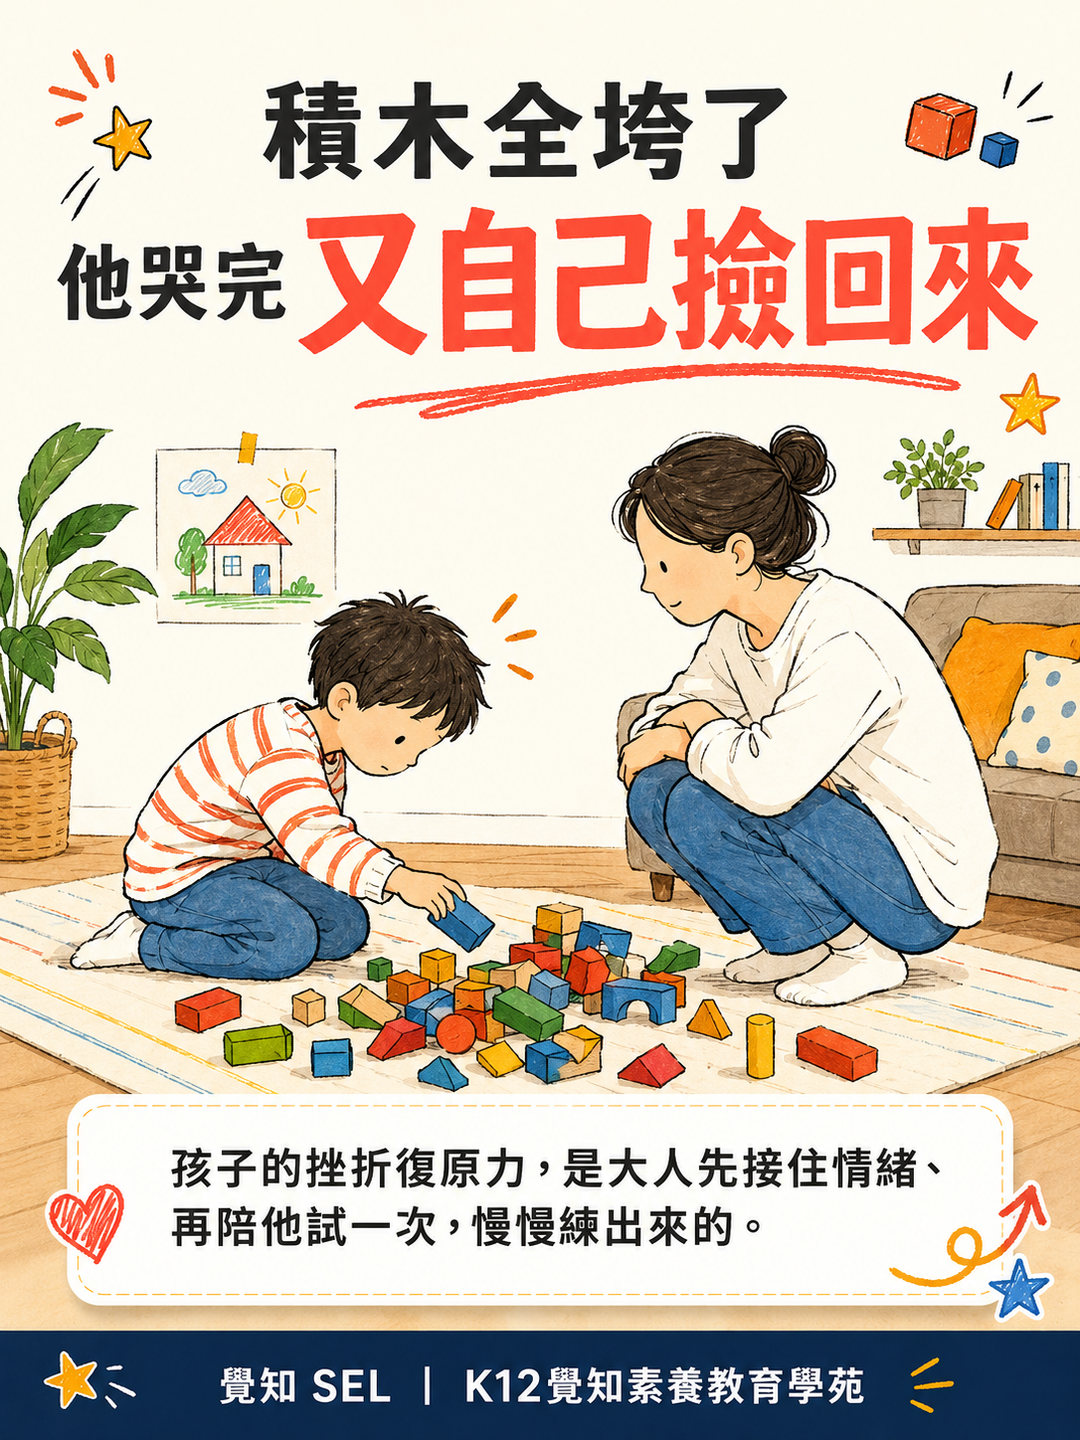
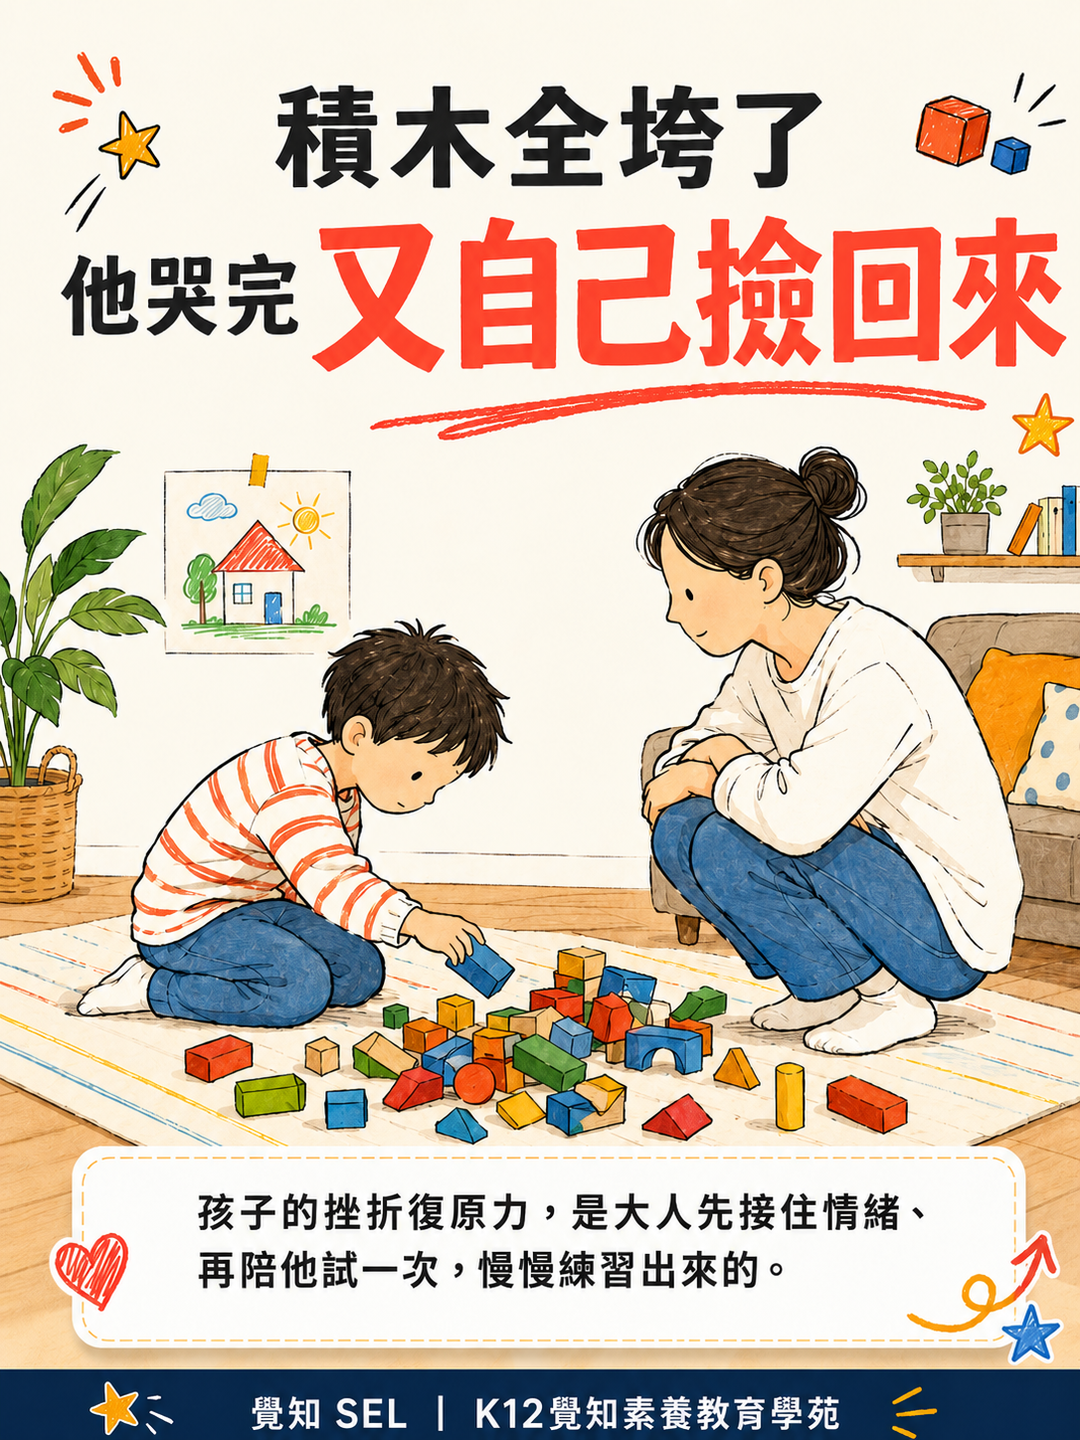
auto: dailynews update 2026-08-09 17:03 TW

diff --git a/2026-08/parenting_essence_2026-08-09.html b/2026-08/parenting_essence_2026-08-09.html
@@ -4,14 +4,14 @@
   <meta charset="utf-8">
   <meta name="viewport" content="width=device-width, initial-scale=1.0">
   <title>就差最後一塊，他堆了一下午的積木塔全垮了 ｜ 覺知教養．每日精華</title>
-  <meta name="description" content="兒子花了一下午疊積木，就差最後一塊，整座塔垮了，他氣得眼淚直掉、把積木撥得滿地。我第一個念頭是「這有什麼好哭」，話到嘴邊又吞了回去。這一篇想聊的，是孩子被挫折淹沒的那一刻，我們與其急著幫他重疊、或叫他別哭，不如先蹲下來接住那股氣——挫折這一關，是一次一次陪著練出來的，也是他日後遇到難事、還願意再試一次的底氣。">
+  <meta name="description" content="兒子花了一下午疊積木，就差最後一塊，整座塔垮了，他氣得眼淚直掉、把積木撥得滿地。我第一個念頭是「這有什麼好哭」，話到嘴邊又吞了回去。這一篇想聊的，是孩子被挫折淹沒的那一刻，我們與其急著幫他重疊、或叫他別哭，不如先蹲下來接住那股氣——挫折這一關，是一次一次陪著練習出來的，也是他日後遇到難事、還願意再試一次的底氣。">
   <meta name="keywords" content="挫折,情緒崩潰,挫折忍受,復原力,心理韌性,再試一次,情緒調節,陪伴,積木,國小低年級,親子,家長,教養,覺知教養,覺知素養,親子溝通,情緒管理,非認知能力,SEL,社會情緒學習,心智光譜">
   <meta name="share-title" content="他氣到把積木全撥開那刻，正在學一件大事">
   <meta name="share-tint" content="sage">
   <meta name="share-palette" content="cream">
   <meta name="hero-title-pos" content="left">
   <meta name="share-teaser" content="他被一次失敗淹沒時，最需要的不是你幫他重來">
-  <meta name="share-explainer" content="挫折忍受不是天生的；是每次跌倒時，有人先接住情緒、再陪他試一次，慢慢練出來的。">
+  <meta name="share-explainer" content="挫折忍受不是天生的；是每次跌倒時，有人先接住情緒、再陪他試一次，慢慢練習出來的。">
   <meta name="share-highlight" content="先接住他的氣">
   <meta name="share-cta" content="家裡也有個一失敗就崩潰的孩子，把這篇存起來 →">
   <style>
@@ -2733,7 +2733,7 @@ body .body section {
 <!-- Open Graph -->
 <meta property="og:type" content="article">
 <meta property="og:title" content="就差最後一塊，他堆了一下午的積木塔全垮了">
-<meta property="og:description" content="兒子花了一下午疊積木，就差最後一塊，整座塔垮了，他氣得眼淚直掉、把積木撥得滿地。我第一個念頭是「這有什麼好哭」，話到嘴邊又吞了回去。這一篇想聊的，是孩子被挫折淹沒的那一刻，我們與其急著幫他重疊、或叫他別哭，不如先蹲下來接住那股氣——挫折這一關，是一次一次陪著練出來的，也是他日後遇到難事、還願意再試一次的底氣。">
+<meta property="og:description" content="兒子花了一下午疊積木，就差最後一塊，整座塔垮了，他氣得眼淚直掉、把積木撥得滿地。我第一個念頭是「這有什麼好哭」，話到嘴邊又吞了回去。這一篇想聊的，是孩子被挫折淹沒的那一刻，我們與其急著幫他重疊、或叫他別哭，不如先蹲下來接住那股氣——挫折這一關，是一次一次陪著練習出來的，也是他日後遇到難事、還願意再試一次的底氣。">
 <meta property="og:image" content="https://zway-education.github.io/education-dailynews/2026-08/parenting_essence_2026-08-09_share.png">
 <meta property="og:url" content="https://zway-education.github.io/education-dailynews/2026-08/parenting_essence_2026-08-09.html">
 <meta property="og:site_name" content="K12 覺知素養教育學苑">
@@ -2745,7 +2745,7 @@ body .body section {
 <!-- Twitter Card -->
 <meta name="twitter:card" content="summary_large_image">
 <meta name="twitter:title" content="他氣到把積木全撥開那刻，正在學一件大事">
-<meta name="twitter:description" content="兒子花了一下午疊積木，就差最後一塊，整座塔垮了，他氣得眼淚直掉、把積木撥得滿地。我第一個念頭是「這有什麼好哭」，話到嘴邊又吞了回去。這一篇想聊的，是孩子被挫折淹沒的那一刻，我們與其急著幫他重疊、或叫他別哭，不如先蹲下來接住那股氣——挫折這一關，是一次一次陪著練出來的，也是他日後遇到難事、還願意再試一次的底氣。">
+<meta name="twitter:description" content="兒子花了一下午疊積木，就差最後一塊，整座塔垮了，他氣得眼淚直掉、把積木撥得滿地。我第一個念頭是「這有什麼好哭」，話到嘴邊又吞了回去。這一篇想聊的，是孩子被挫折淹沒的那一刻，我們與其急著幫他重疊、或叫他別哭，不如先蹲下來接住那股氣——挫折這一關，是一次一次陪著練習出來的，也是他日後遇到難事、還願意再試一次的底氣。">
 <meta name="twitter:image" content="https://zway-education.github.io/education-dailynews/2026-08/parenting_essence_2026-08-09_share.png">
 
 <!-- Article Schema -->
@@ -2754,7 +2754,7 @@ body .body section {
   "@context": "https://schema.org",
   "@type": "Article",
   "headline": "就差最後一塊，他堆了一下午的積木塔全垮了",
-  "description": "兒子花了一下午疊積木，就差最後一塊，整座塔垮了，他氣得眼淚直掉、把積木撥得滿地。我第一個念頭是「這有什麼好哭」，話到嘴邊又吞了回去。這一篇想聊的，是孩子被挫折淹沒的那一刻，我們與其急著幫他重疊、或叫他別哭，不如先蹲下來接住那股氣——挫折這一關，是一次一次陪著練出來的，也是他日後遇到難事、還願意再試一次的底氣。",
+  "description": "兒子花了一下午疊積木，就差最後一塊，整座塔垮了，他氣得眼淚直掉、把積木撥得滿地。我第一個念頭是「這有什麼好哭」，話到嘴邊又吞了回去。這一篇想聊的，是孩子被挫折淹沒的那一刻，我們與其急著幫他重疊、或叫他別哭，不如先蹲下來接住那股氣——挫折這一關，是一次一次陪著練習出來的，也是他日後遇到難事、還願意再試一次的底氣。",
   "image": [
     "https://zway-education.github.io/education-dailynews/2026-08/parenting_essence_2026-08-09_share.png"
   ],
